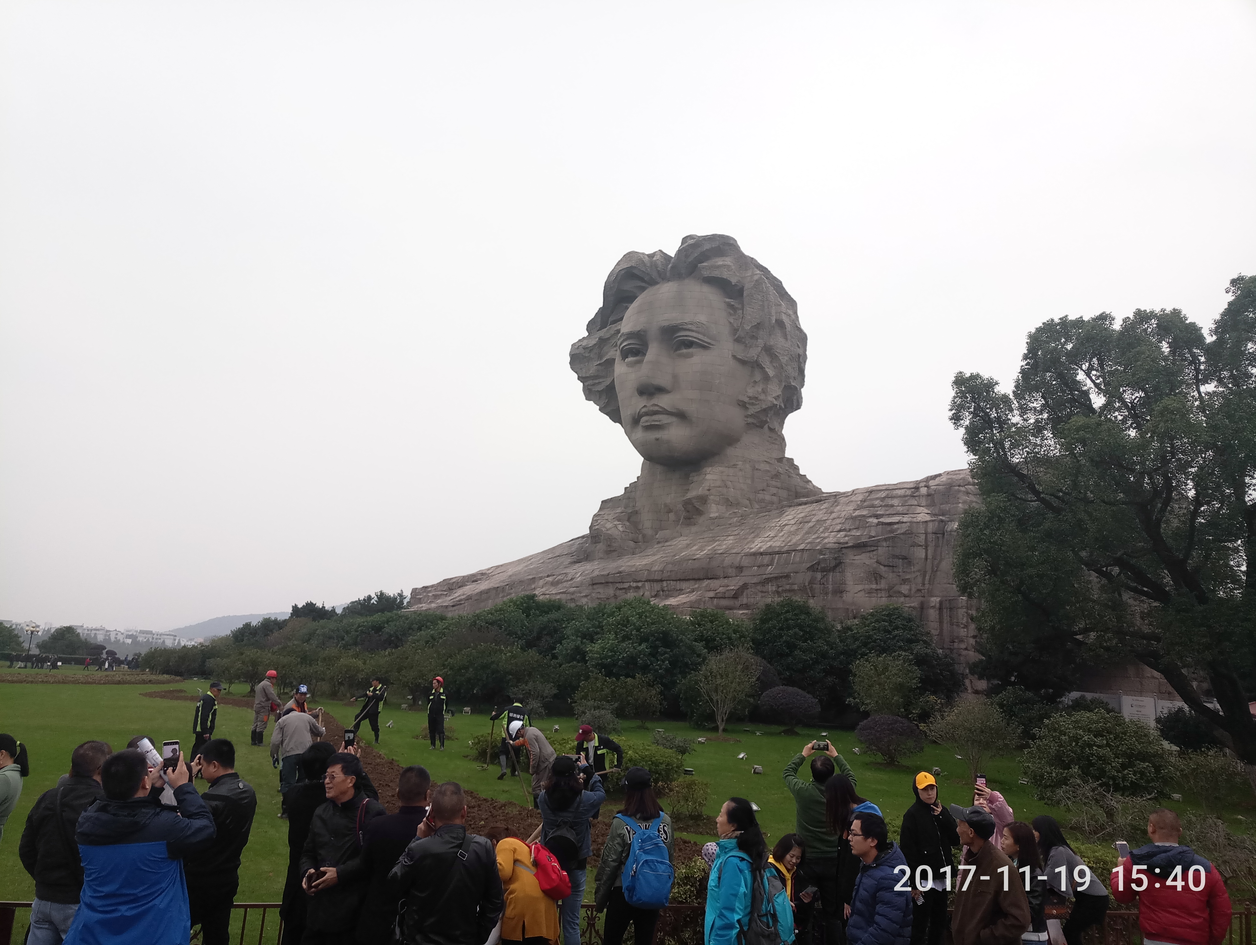
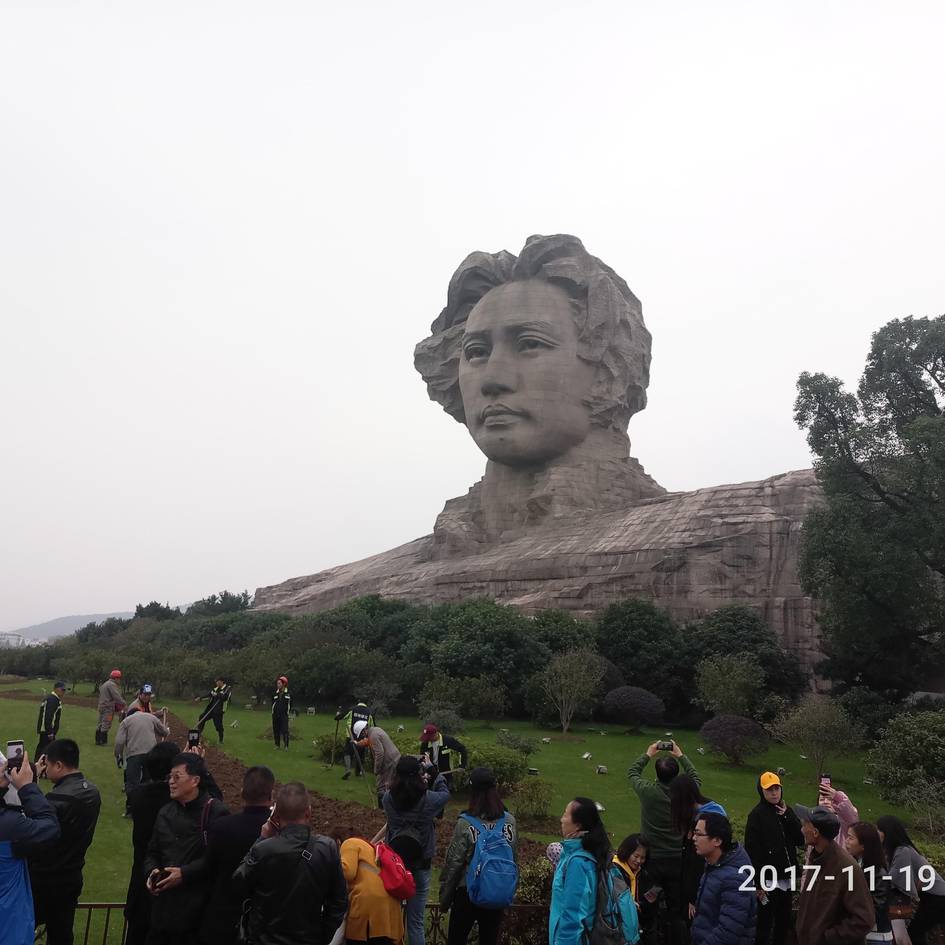
add photos

Changed region(s): [[0.0, 0.25, 1.0, 1.0]]

diff --git a/tool.py b/tool.py
@@ -137,7 +137,7 @@ def cut_photo():
     ----------
     调用Graphics类中的裁剪算法，将src_dir目录下的文件进行裁剪（裁剪成正方形）
     """
-    src_dir = "photos/"
+    src_dir = "min_photos/"
     if directory_exists(src_dir):
         if not directory_exists(src_dir):
             make_directory(src_dir)
